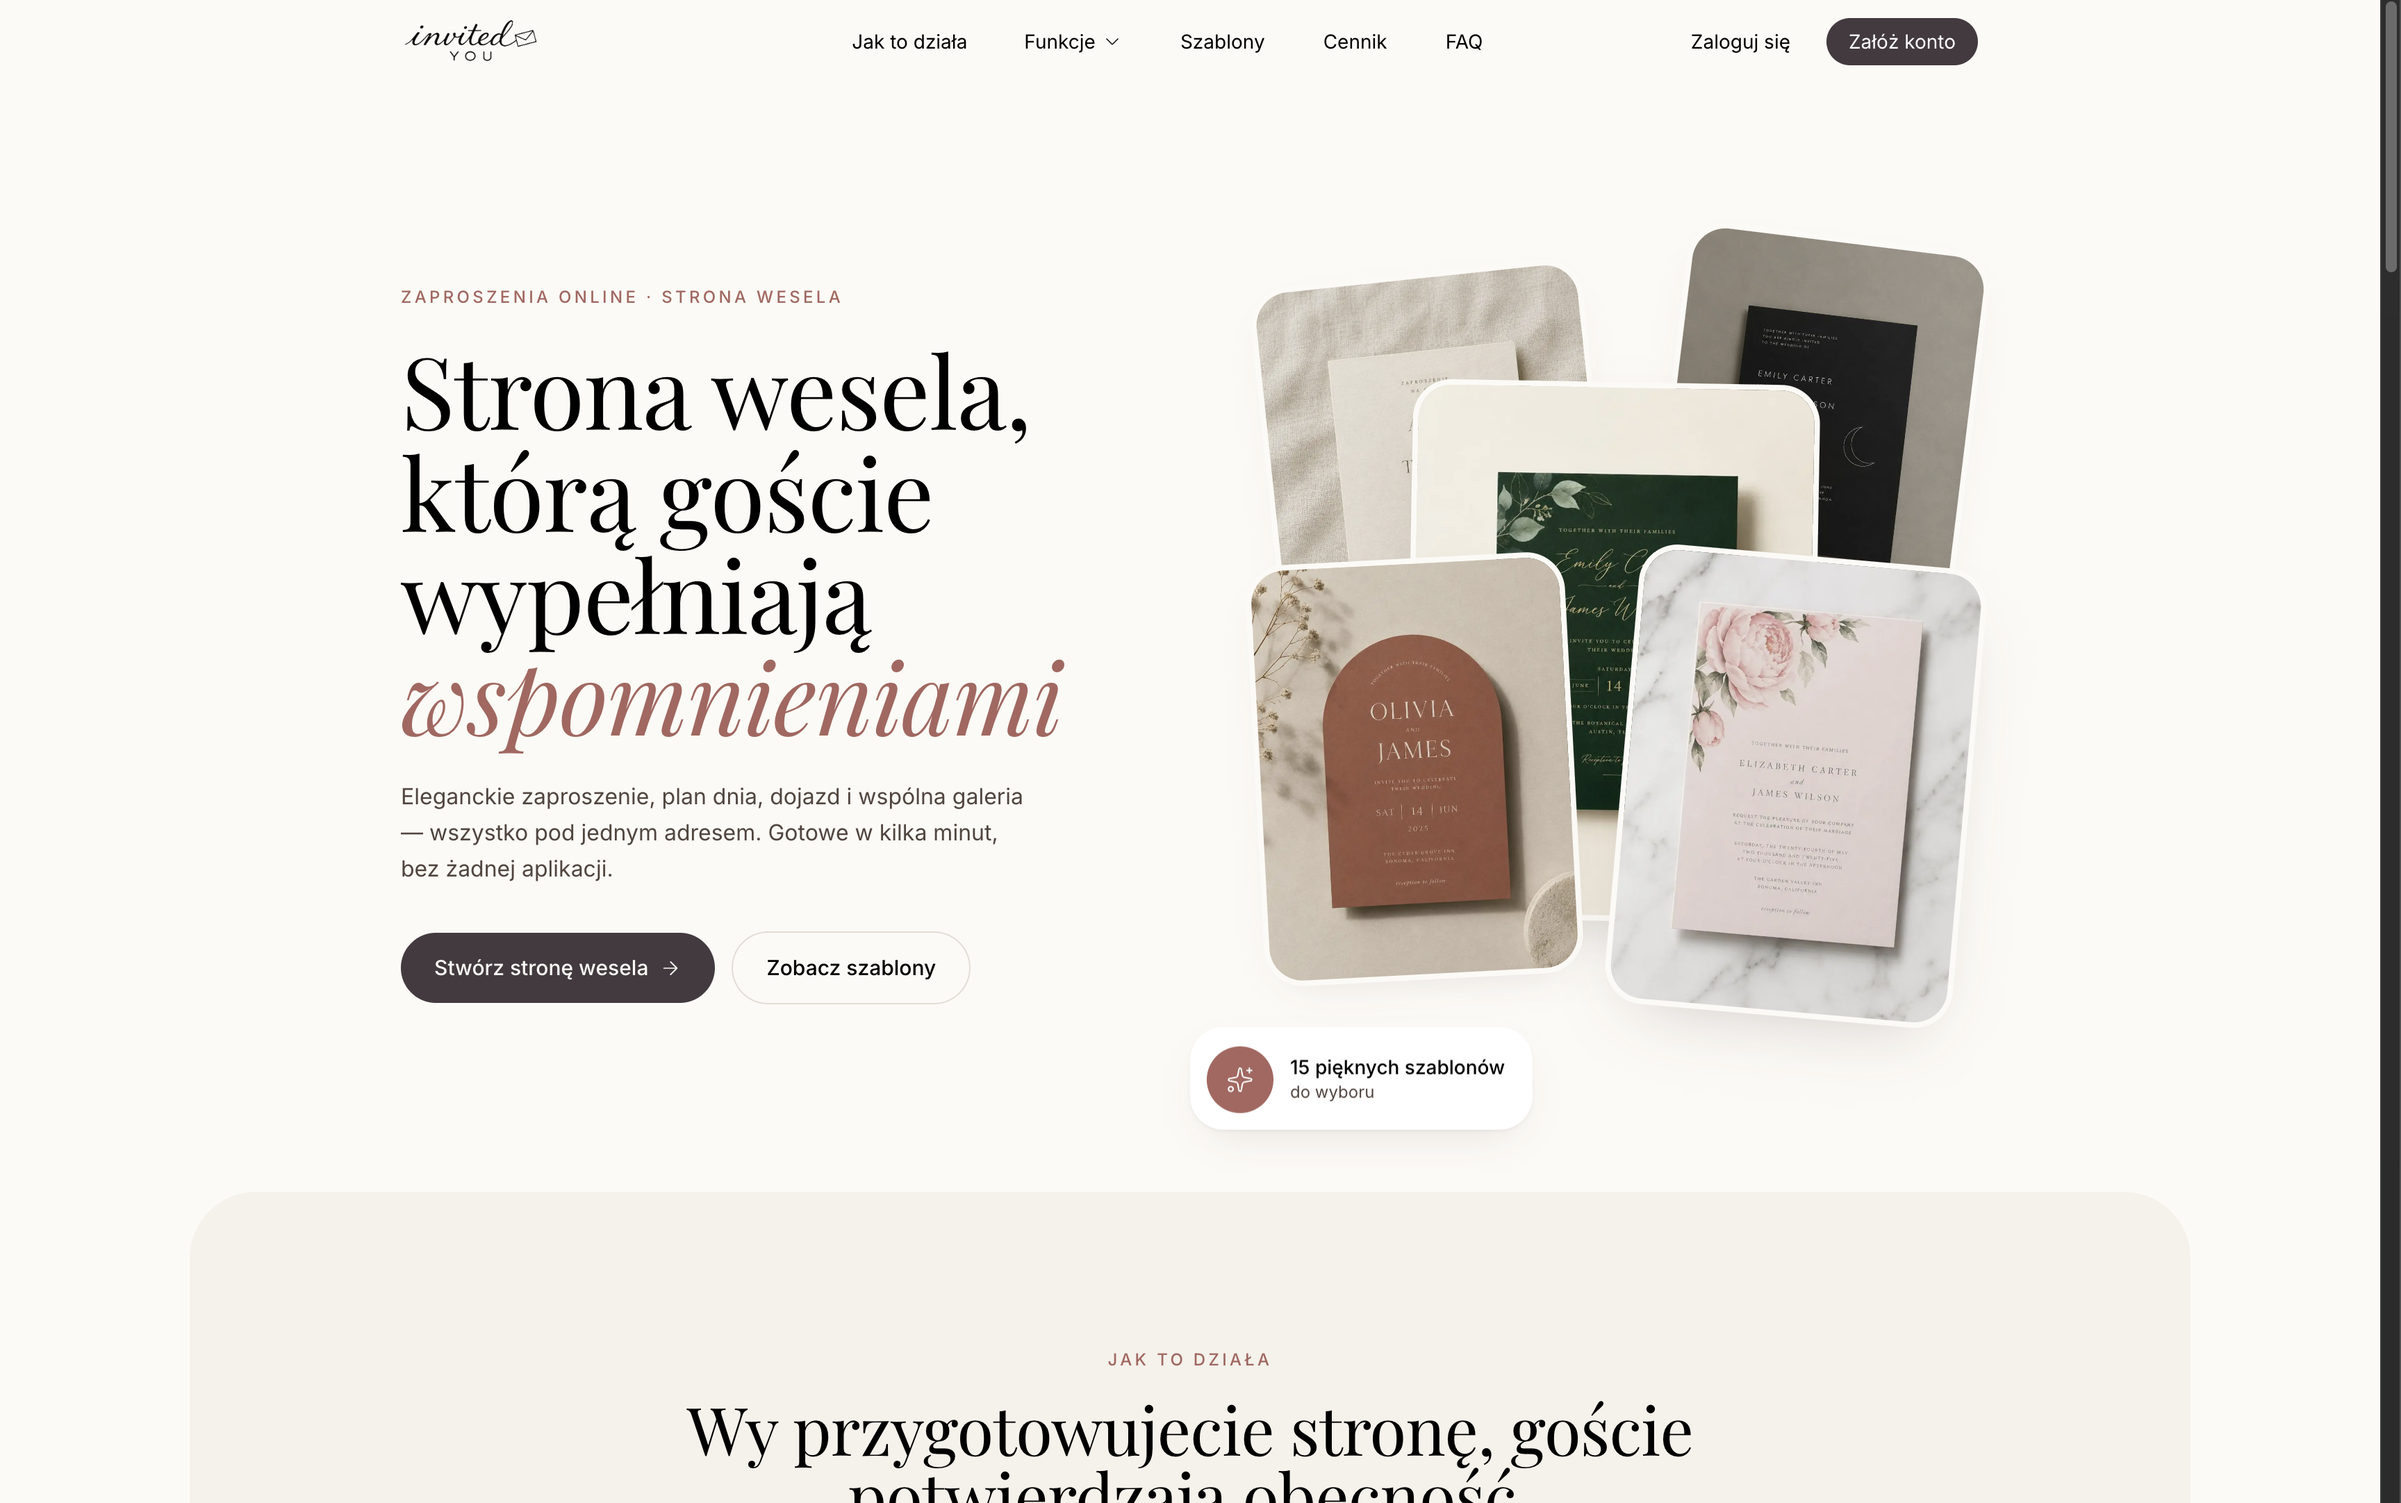
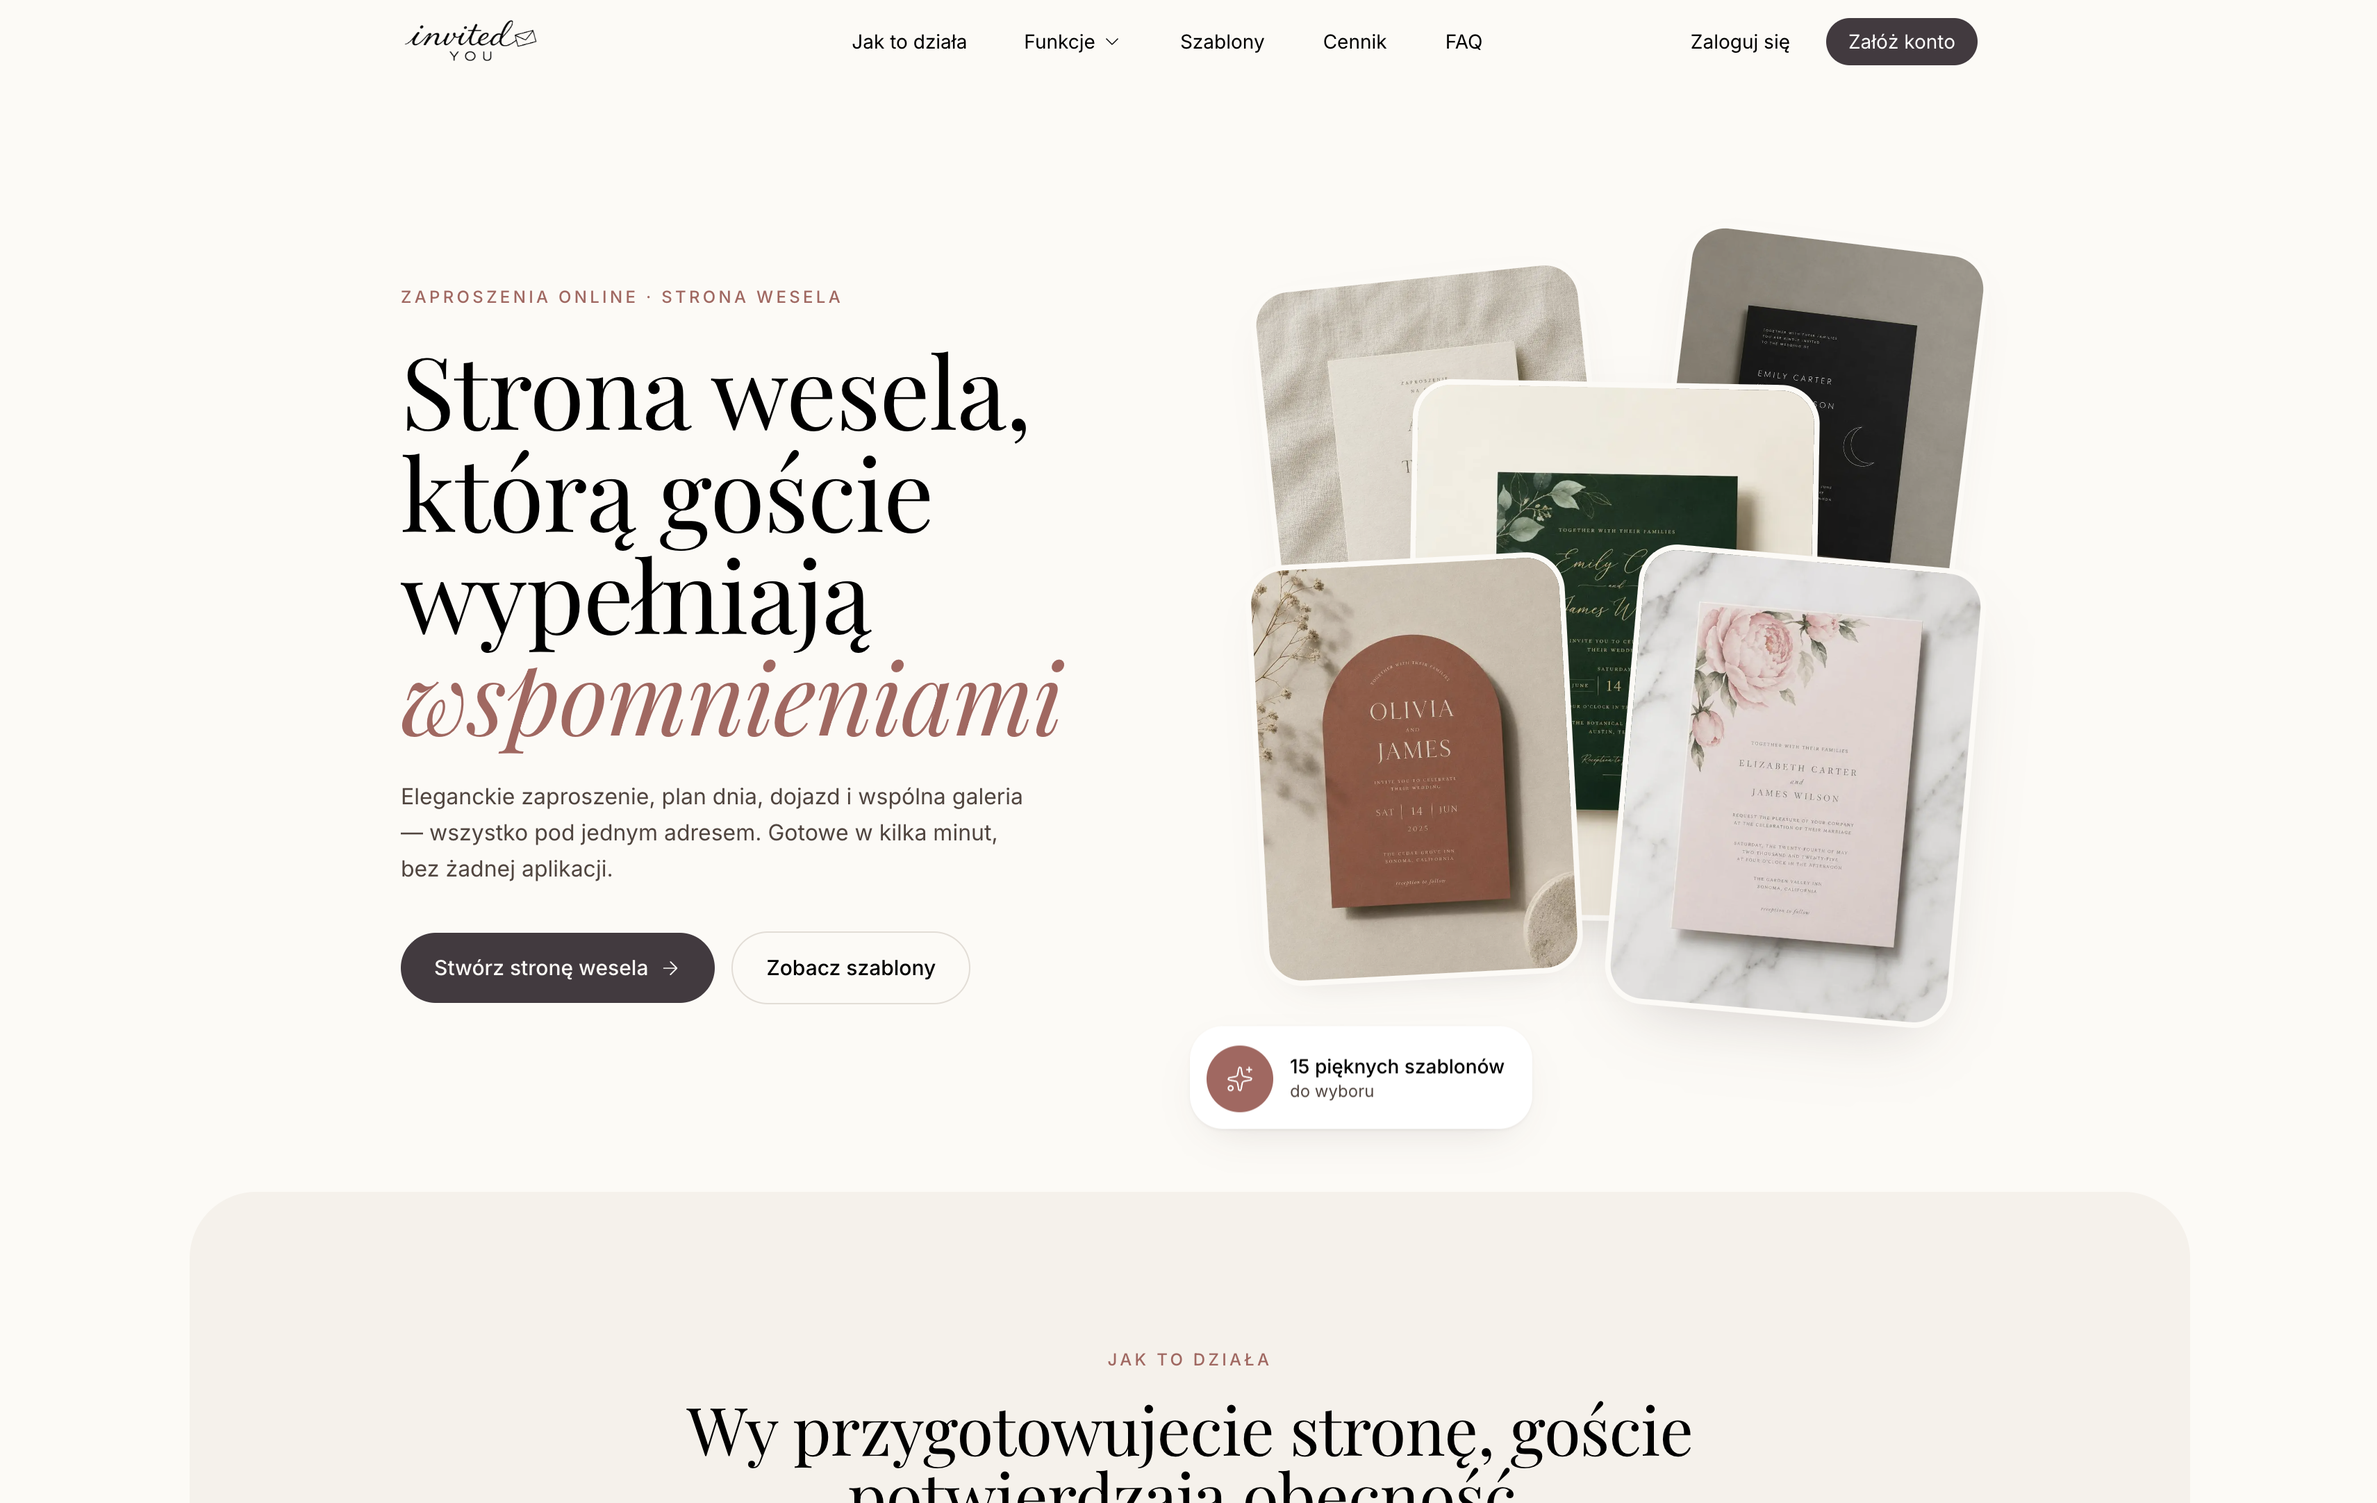
invite update

diff --git a/src/data/image-blur-data.ts b/src/data/image-blur-data.ts
@@ -12,7 +12,7 @@ export const imageBlurData: Record<string, string> = {
[8 lines of base64/hex data omitted]
@@ -40,7 +40,7 @@ export const imageVersions: Record<string, string> = {
   "/projects/doors/Doors-4.png": "28d296b4",
   "/projects/flowboard/Flowboard-1.png": "4742b443",
   "/projects/flowboard/Flowboard-2.png": "ea435f63",
-  "/projects/invite/invite-1.png": "bd560655",
+  "/projects/invite/invite-1.png": "959a4b41",
   "/projects/invite/invite-10.png": "a1aef145",
   "/projects/invite/invite-5.png": "31fce98b",
   "/projects/invite/invite-6.png": "9983ddd1",
@@ -102,7 +102,7 @@ export const imageDimensions: Record<string, { width: number; height: number }> 
     "height": 1928
   },
   "/projects/invite/invite-1.png": {
-    "width": 3456,
+    "width": 3422,
     "height": 2164
   },
   "/projects/invite/invite-10.png": {
